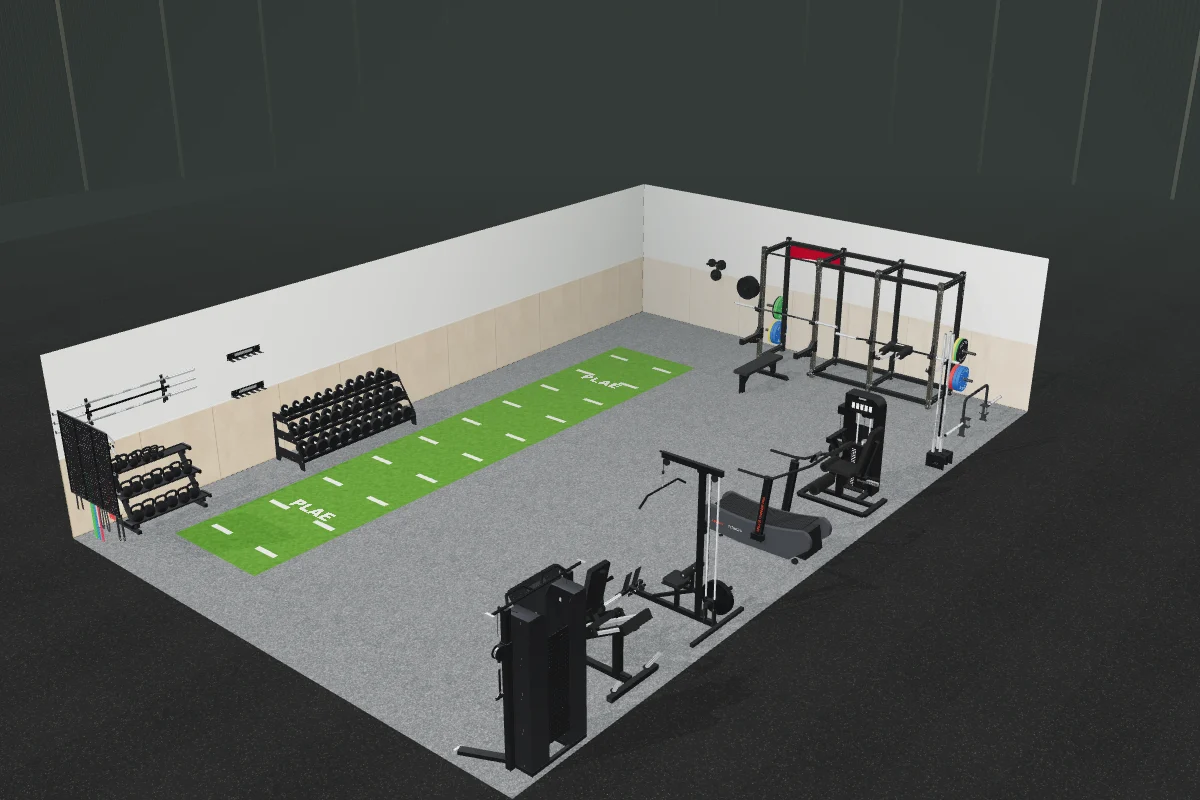
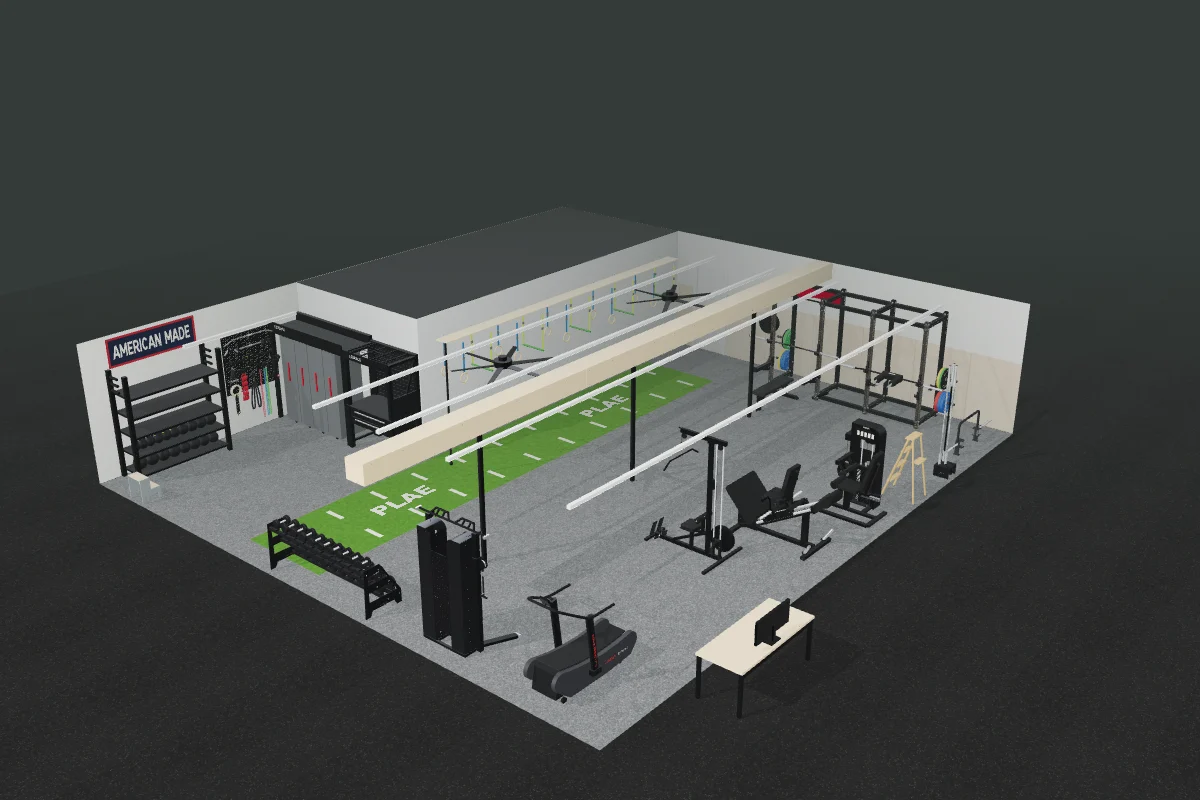
Decor thumbnails, dollhouse cut-away for wall items, Coop preview and evidence renders (#201)

Changed region(s): [[0.0308, 0.2188, 0.8942, 1.0], [0.9867, 0.0625, 1.0, 0.1562]]

diff --git a/src/scenes/builder-scene.ts b/src/scenes/builder-scene.ts
@@ -8,7 +8,7 @@ import { isFloorPart } from '../../rack-generator/floor-registry.ts';
 import { barSpec, freeCradles, parkedPose, parksInCradles, type BarCradle } from '../../rack-generator/barbell-cradles.ts';
 import { isWallPart, wallPart } from '../../rack-generator/wall-registry.ts';
 import { roomOf, wallOpenings, wallWarnings } from '../../rack-generator/wall-items.ts';
-import { wallFrames, wallHit, wallPlaneHit, type WallId } from '../../rack-generator/walls.ts';
+import { facesInside, wallFrames, wallHit, wallPlaneHit, type WallId } from '../../rack-generator/walls.ts';
 import { createGymWalls } from './gym-walls.ts';
 import { RoomMaterials, createRoomScenery } from './room-scenery.ts';
 import { resolveFinishes, roomLighting } from '../../rack-generator/room-finishes.ts';
@@ -633,8 +633,9 @@ export function createBuilderScene(
     const rect = renderer.domElement.getBoundingClientRect();
     pointer.set((event.clientX - rect.left) / rect.width * 2 - 1, -(event.clientY - rect.top) / rect.height * 2 + 1);
     scene.updateMatrixWorld(true); raycaster.setFromCamera(pointer, camera);
+    const shown = (o: THREE.Object3D | null): boolean => { for (; o; o = o.parent) if (!o.visible) return false; return true; };
     const hits = raycaster.intersectObjects([assemblyRoot, ...(swapRegions ? [swapRegions.root] : [])], true)
-      .filter(hit => hit.object instanceof THREE.Mesh);
+      .filter(hit => hit.object instanceof THREE.Mesh && shown(hit.object));
     let object: THREE.Object3D | null = hits[0]?.object ?? null;
     while (object && !object.userData.ownerId) object = object.parent;
     return object ? { id: object.userData.id ?? object.userData.ownerId, ownerId: object.userData.ownerId } : null;
@@ -1025,6 +1026,19 @@ export function createBuilderScene(
   observer.observe(viewport);
   resize();
   renderer.domElement.addEventListener("webglcontextrestored", invalidate);
+  /** Dollhouse cut-away (#201): wall items (and anything hung on them) hide with the wall they are on whenever the camera
+   * is outside it, so windows, doors and bays never show their backs from the default views. */
+  function cutAwayWallItems() {
+    const items = snapshot.doc.wallItems;
+    if (!items?.length) return;
+    const frames = wallFrames(roomOf(snapshot.doc)), eye = camera.position.toArray(), hidden = new Set<string>();
+    for (const item of items) {
+      const shown = facesInside(frames[item.wall], eye), group = instances.get(item.id);
+      if (group) group.visible = shown;
+      if (!shown) hidden.add(item.id);
+    }
+    for (const hung of snapshot.doc.hangItems ?? []) { const group = instances.get(hung.id); if (group) group.visible = !hidden.has(hung.panel); }
+  }
   /** One frame; true while damping or the build animation needs another. */
   function renderFrame() {
     if (disposed) return false;
@@ -1041,6 +1055,7 @@ export function createBuilderScene(
     const focus = build ? build.animation.focus : controls.target;
     backdrop.follow(camera, focus);
     walls.follow(camera);
+    cutAwayWallItems();
     roomScenery.follow(camera);
     camera.far = Math.max(40000, camera.position.distanceTo(focus) * 4);
     camera.near = Math.max(

diff --git a/scripts/gyms/coop-garage-gym-reviews.ts b/scripts/gyms/coop-garage-gym-reviews.ts
@@ -187,7 +187,7 @@ for (const z of [ZB + 2750, ZB + 4750, ZB + 6650]) wall('decor-window', 'right',
 wall('sonos-five-wall-mount', 'right', ZB + 900, 2150);
 wall('sonos-five-wall-mount', 'right', BAY.z0 - 180, 2150);
 wall('decor-bay-window', 'right', BAY.z0 + BAY.width / 2, 2450 / 2, { width: BAY.width, depth: BAY.depth, mouth: 2450, sill: 900, head: 2200 });
-floor('decor-birch-desk', X1 + 650, BAY.z0 + BAY.width / 2, -Q, { width: 2, monitor: 1 });
+floor('decor-birch-desk', X1 + 300, BAY.z0 + BAY.width / 2, -Q, { width: 2, monitor: 1 });
 const rightX = (depth: number) => X1 - depth / 2 - 60;
 floor('rep-open-trap-bar', rightX(700), ZB + 1250, Q);
 floor('titan-barbell-storage-holder', rightX(305), ZB + 2650, -Q, { loaded: 3 });
